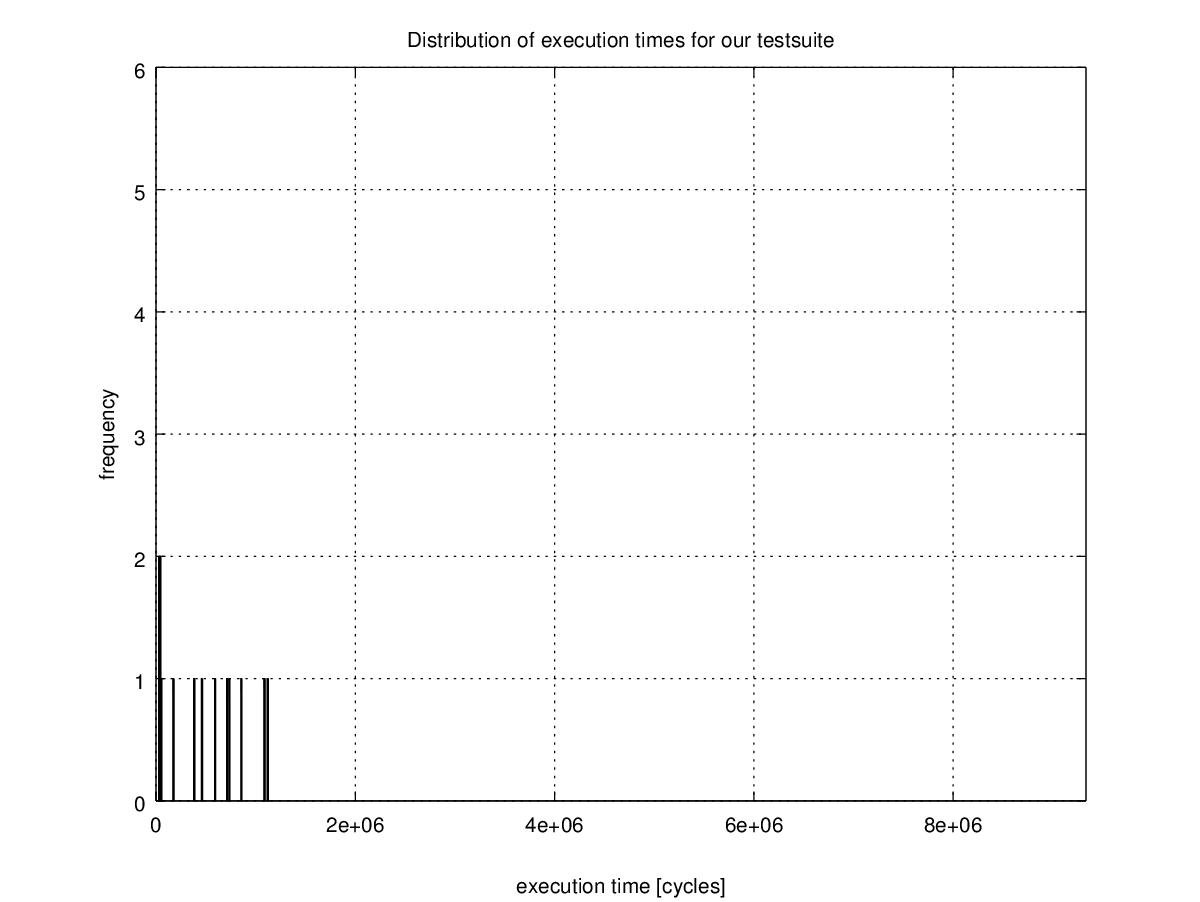
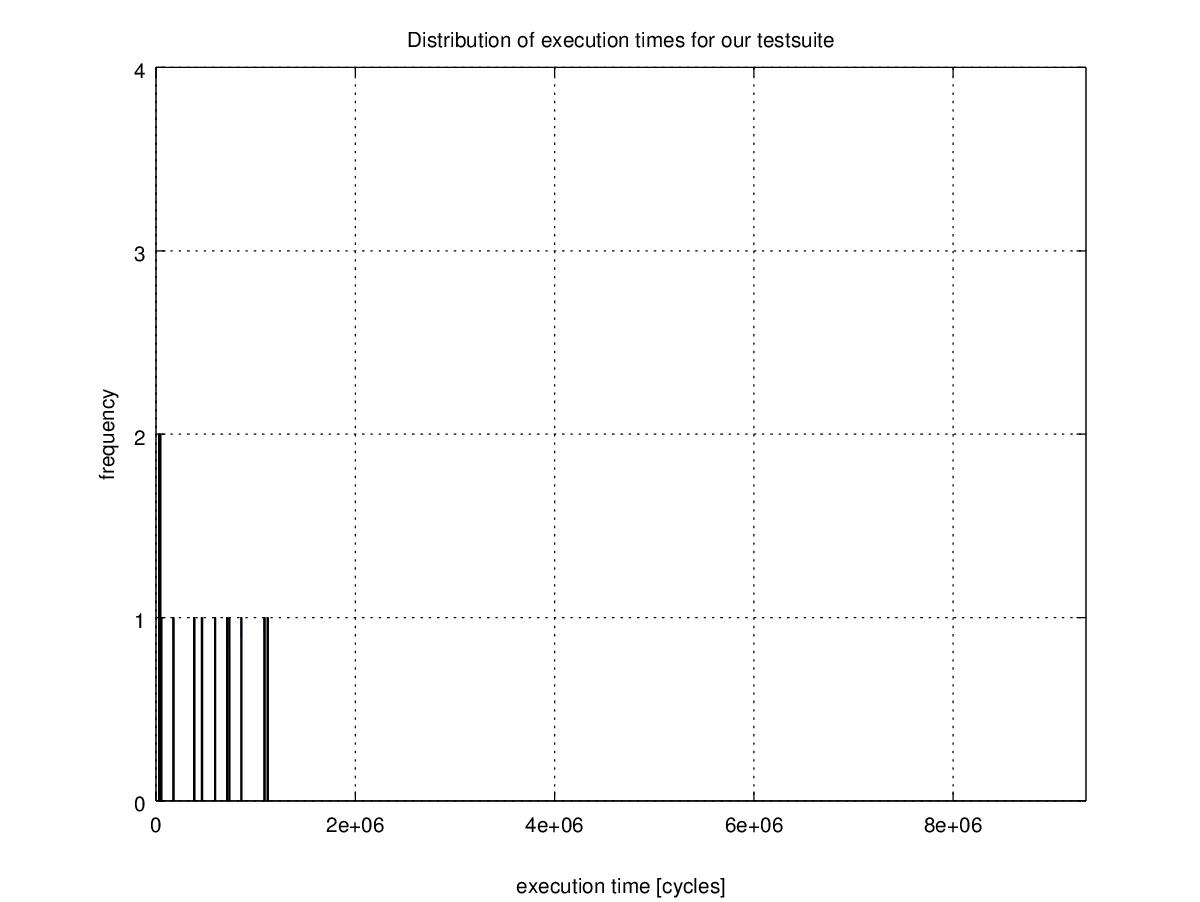
update plots (change y axi maximum)

Changed region(s): [[0.1233, 0.6829, 0.2467, 0.745], [0.1233, 0.4967, 0.1542, 0.6208], [0.0925, 0.0621, 0.1233, 0.0931]]

diff --git a/results/plot.m b/results/plot.m
@@ -3,6 +3,9 @@
 
 %files = {'1-hw.csv', '1-pasim-full.csv',  '2-hw.csv',  '2-pasim-full.csv',  '3-hw.csv',  '3-pasim-full.csv'};
 
+x_max = 9333186;
+y_max = 4;
+
 format long
 more off
 set (gca, 'fontname', 'Helvetica', 'fontsize', 20);
@@ -31,68 +34,68 @@ for i = 1:length(files)
   %set(gca,'Xtick',linspace(xData(1),xData(end),numberOfXTicks));
   %set(gca,'DatetimeTickFormat', 'dd/mm');
   %datetick('x', 'dd/mmm'); % sets x-axis display format
-  xlim([0 9333186]);
+  xlim([0 x_max]);
   xlabel('execution time [cycles]') % sets x-axis label
   ylabel('frequency') % sets y-axis label
   title('Distribution of execution times for our testsuite') %set plot title
   grid on % enables grid lines
-  axis([0 9333186 0 6]);
+  axis([0 x_max 0 y_max]);
   set(gca,'layer','top');
   print(['plots/' filename '-o0n.jpg'], '-djpg')
   
   %
   hist(o0s,100)
-  xlim([0 9333186]);
+  xlim([0 x_max]);
   xlabel('execution time [cycles]') % sets x-axis label
   ylabel('frequency') % sets y-axis label
   title('Distribution of execution times for our testsuite') %set plot title
   grid on % enables grid lines
-  axis([0 9333186 0 6]);
+  axis([0 x_max 0 y_max]);
   set(gca,'layer','top');
   print(['plots/' filename '-o0s.jpg'], '-djpg')
 
   %
   hist(o1n,100)
-  xlim([0 9333186]);
+  xlim([0 x_max]);
   xlabel('execution time [cycles]') % sets x-axis label
   ylabel('frequency') % sets y-axis label
   title('Distribution of execution times for our testsuite') %set plot title
   grid on % enables grid lines
-  axis([0 9333186 0 6]);
+  axis([0 x_max 0 y_max]);
   set(gca,'layer','top');
   print(['plots/' filename '-o1n.jpg'], '-djpg')
 
 
   %
   hist(o1s,100)
-  xlim([0 9333186]);
+  xlim([0 x_max]);
   xlabel('execution time [cycles]') % sets x-axis label
   ylabel('frequency') % sets y-axis label
   title('Distribution of execution times for our testsuite') %set plot title
   grid on % enables grid lines
-  axis([0 9333186 0 6]);
+  axis([0 x_max 0 y_max]);
   set(gca,'layer','top');
   print(['plots/' filename '-o1s.jpg'], '-djpg')
 
   %
   hist(o2n,100)
-  xlim([0 9333186]);
+  xlim([0 x_max]);
   xlabel('execution time [cycles]') % sets x-axis label
   ylabel('frequency') % sets y-axis label
   title('Distribution of execution times for our testsuite') %set plot title
   grid on % enables grid lines
-  axis([0 9333186 0 6]);
+  axis([0 x_max 0 y_max]);
   set(gca,'layer','top');
   print(['plots/' filename '-o2n.jpg'], '-djpg')
 
   %
   hist(o2s,100)
-  xlim([0 9333186]);
+  xlim([0 x_max]);
   xlabel('execution time [cycles]') % sets x-axis label
   ylabel('frequency') % sets y-axis label
   title('Distribution of execution times for our testsuite') %set plot title
   grid on % enables grid lines
-  axis([0 9333186 0 6]);
+  axis([0 x_max 0 y_max]);
   set(gca,'layer','top');
   print(['plots/' filename '-o2s.jpg'], '-djpg')
 
